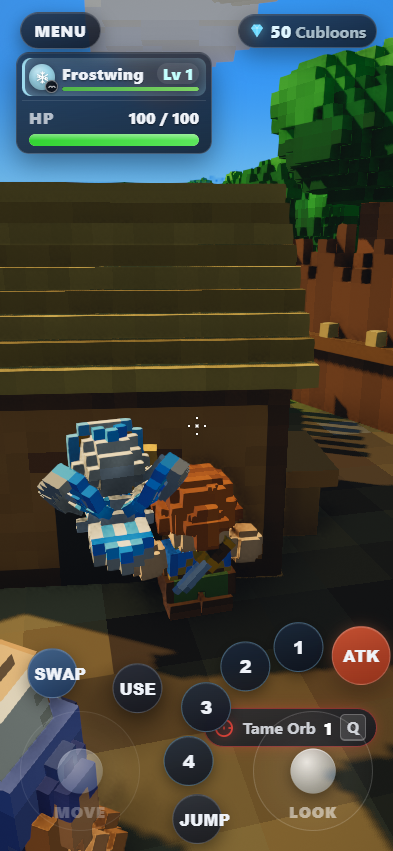
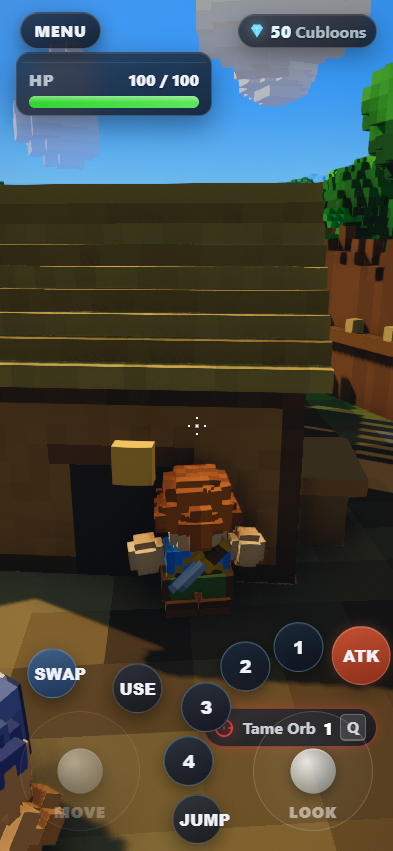
The § console is behind debug=1 too: not built at all on a player's page
Probes that type into it boot with the flag; test-keybinds §9 asserts the third half of the gate.

diff --git a/src/core/flags.ts b/src/core/flags.ts
@@ -56,8 +56,8 @@ export const flags = {
   /** `nostore=1` — core/saves.ts opens no database and autosave never arms. Defaults OFF. */
   noStore: p.get("nostore") === "1",
   /**
-   * `debug=1` — the developer's game: F2 overlay open at boot, F3 reachable and on the F1 sheet,
-   * a new game bonded to the starter. A player's new game has no beast and no F3. Defaults OFF.
+   * `debug=1` — the developer's game: F2 overlay open at boot, F3 and the `§` console reachable,
+   * F3 on the F1 sheet, a new game bonded to the starter. A player's new game has none of these. Defaults OFF.
    */
   debug: p.get("debug") === "1",
   /**

diff --git a/src/main.ts b/src/main.ts
@@ -5093,7 +5093,8 @@ if (params.get("perf") === "1") {
 }
 let lastPrograms = 0;
 
-const devConsole = photoMode ? null : new DevConsole();
+// A developer's instrument like F3: not built at all outside `debug=1`, and photo mode has no one to type into it.
+const devConsole = photoMode || !flags.debug ? null : new DevConsole();
 const colliderView = new ColliderView(engine.scene, world);
 bound.push(colliderView);
 // `colliders=1` starts them visible for a staged capture; photo mode has no console to type into.

diff --git a/AGENTS.md b/AGENTS.md
@@ -42,7 +42,7 @@ and everything browser-related goes through
 | --------------------------------------- | ------------------------------------------------------------------------------------------------------------------------------------------------------------------- |
 | Boot                                    | `menu=0` skip title · `menu=1` force it · `photo=1` staged capture (implies `menu=0`) · `warmup=0` skip the shader sweep                                            |
 | Framing                                 | `cam=x,y,z` / `look=x,y,z` **offsets from `world.spawnPoint`** · `beast=<id>` · `anim=` · `a=<deg>` · `hud=0` · `npct=<s>` NPC clock · `colliders=1` draw colliders |
-| Performance                             | `fps=<n>` cap (default 120, `0` = off) · `simhz=` · `view=<n>` streaming radius · `debug=1` developer mode: F2 overlay open, F3 reachable, starter beast bonded · `perf=1` pin the profiler                                  |
+| Performance                             | `fps=<n>` cap (default 120, `0` = off) · `simhz=` · `view=<n>` streaming radius · `debug=1` developer mode: F2 overlay open, F3 and the `§` console reachable, starter beast bonded · `perf=1` pin the profiler                                  |
 | A/B switches                            | `towns=0` · `solids=0` · `sway=0` · `props=0` · `clouds=0` · `water=0` · `enemies=0` · `beasts=0` · `aim=0` · `shadows=0` · `shadowcache=0` (must move no pixel)    |
 | Post                                    | `post=0` · `ao=` · `bloom=` · `aa=0` · `grade=0` · `roll=` · `aoview=1`                                                                                             |
 | Preferences (one load, never persisted) | `vol=<0..1>` · `lang=<iso639-1>` · `fs=<0\|1>` fullscreen on start · `haptics=` · `shake=` · `invx=` · `invy=`                                                      |
@@ -51,7 +51,7 @@ and everything browser-related goes through
 
 Lab flags are in [LAB.md](LAB.md).
 
-**Console** (`§`): `/gfx` · `/nature` · `/content` · `/give` · `/path` · `/tp` · `/zone` ·
+**Console** (`§`, under `debug=1`): `/gfx` · `/nature` · `/content` · `/give` · `/path` · `/tp` · `/zone` ·
 `/mount <species>` · `/mount unlock [<kind>|all]` · `/show-colliders` · `/volume` · `/haptics` · `/vibration` ·
 `/shake` · `/invertlook`
 
